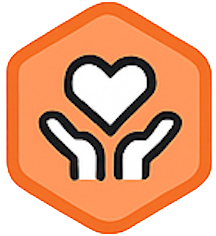
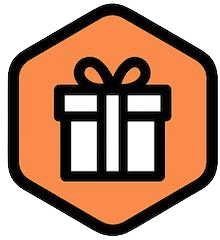
Added badges

diff --git a/ShelfAware/src/Achievement.tsx b/ShelfAware/src/Achievement.tsx
@@ -48,7 +48,7 @@ const Achievements = () => {
       const donationRec = query(collection(db, "donationCount"), where("userId", "==", userId));
       const getDonatedRec = await getDocs(donationRec);
       setdonated(getDonatedRec.docs.length);
-      
+
       const dateString = new Set(dates.map(
         dateS => format(dateS, "yyyy-MM-dd"))
       );
@@ -126,10 +126,50 @@ const Achievements = () => {
         description: "Donated your first item from your pantry!",
         progress: donated,
         require: 1
-      }
+      },
+      {
+        name: "Kind Donor",
+        image: "/badges/Kind Donor.png",
+        unlocked: donated >= 5,
+        description: "Donated 5 items from your pantry!",
+        progress: donated,
+        require: 5
+      },
+      {
+        name: "Generous Giver",
+        image: "/badges/GenerousGiver.png",
+        unlocked: donated >= 10,
+        description: "Donated 10 items from your pantry!",
+        progress: donated,
+        require: 10
+      },
+      {
+        name: "Century Saver",
+        image: "/badges/CenturySaver.png",
+        unlocked: total >= 100,
+        description: "Maintained a 100 days of food logging streak!",
+        progress: total,
+        require: 100
+      },
+      {
+        name: "Pantry King",
+        image: "/badges/PantryKing.png",
+        unlocked: addedCount >= 100,
+        description: "Added 100 items to your pantry!",
+        progress: addedCount,
+        require: 100
+      },
+      {
+        name: "ShelfAware Champion",
+        image: "/badges/ShelfAwareChampion.png",
+        unlocked: donated >= 200,
+        description: "Donated 200 items from your pantry!",
+        progress: donated,
+        require: 200,
+      },
     ];
     setBadges(updatedBadges);
-}, [addedCount, usedUp, donated ]);
+}, [addedCount, usedUp, donated, total]);
 
 useEffect(() => {
   if (!userId) return;
